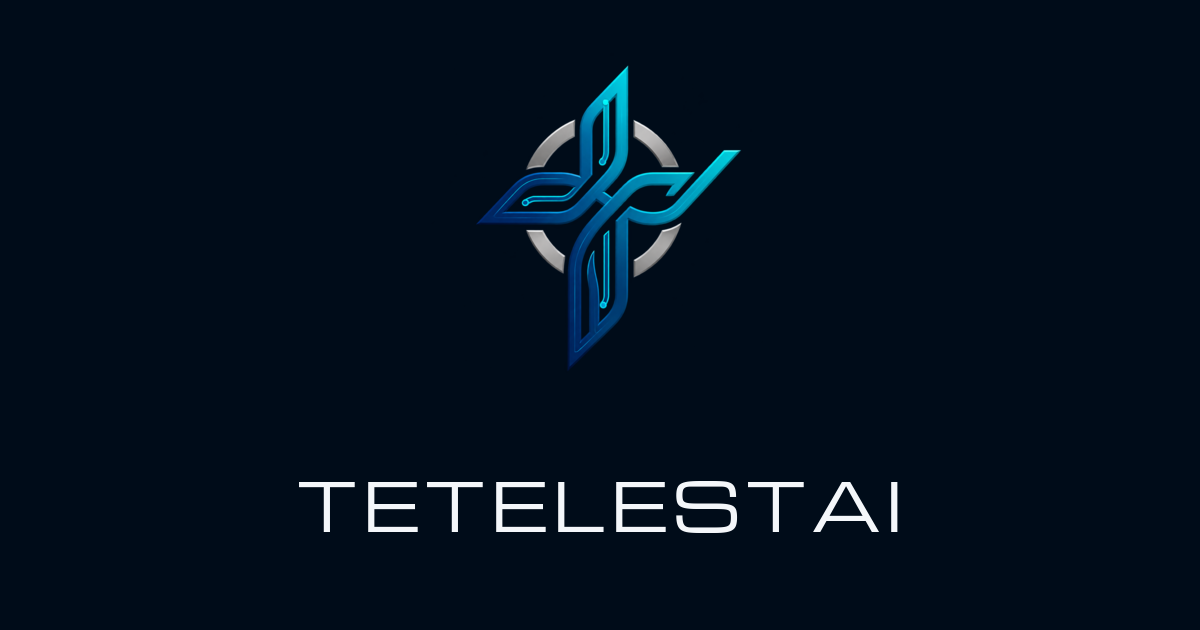
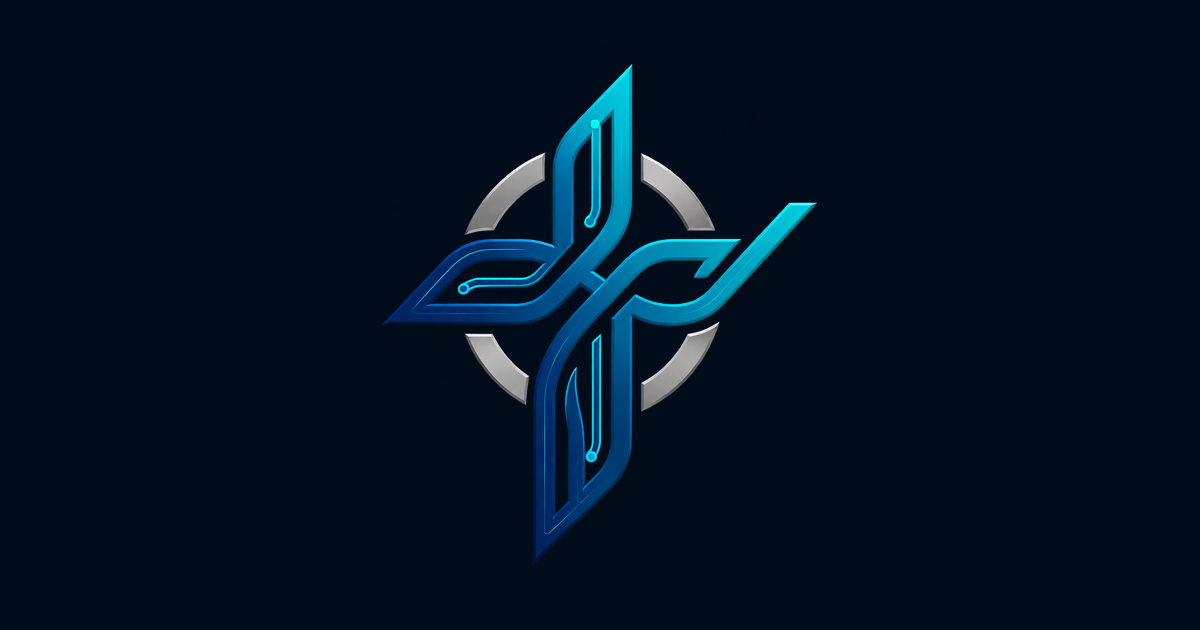
fix: enlarge original symbol in sharing preview

Changed region(s): [[0.2467, 0.1206, 0.7708, 0.9048]]

diff --git a/index.html b/index.html
@@ -16,7 +16,7 @@
     <meta property="og:image:type" content="image/png" />
     <meta property="og:image:width" content="1200" />
     <meta property="og:image:height" content="630" />
-    <meta property="og:image:alt" content="Símbolo e nome Tetelestai sobre fundo azul-marinho." />
+    <meta property="og:image:alt" content="Símbolo original da Tetelestai sobre fundo azul-marinho." />
     <link rel="canonical" href="https://tetelestai.tech/" />
     <link rel="alternate" hreflang="pt-BR" href="https://tetelestai.tech/" />
     <link rel="alternate" hreflang="en" href="https://tetelestai.tech/en/" />

diff --git a/AGENTS.md b/AGENTS.md
@@ -28,7 +28,7 @@ Build app UI in `src/`. Preserve the verified localized-shell and strict-route b
 - Center the company-information group and localized verse: `Está consumado! João 19:30` / `It is finished! John 19:30`; render both parts at `1rem`, keep the phrase cyan and the non-wrapping reference in the primary text color, separated only by a non-breaking space.
 - On mobile, use the existing circuit image behind the solutions introduction with `contain` sizing and low image-only opacity.
 - Protect `public/assets/tetelestai-symbol.png`; set the entire wordmark in Michroma 400 without isolated treatment of the letter `S`.
-- Use `public/assets/tetelestai-share.png` for Open Graph sharing: keep it at `1200 × 630 px`, under `600 KB`, with an opaque `#000C19` background, the protected original symbol and the Michroma 400 wordmark. Do not use the transparent symbol file itself as the sharing image.
+- Use `public/assets/tetelestai-share.png` for Open Graph sharing: keep it at `1200 × 630 px`, under `600 KB`, with an opaque `#000C19` background and only the protected original symbol, without a wordmark. Center the visible symbol at approximately `504 px` high (80% of the image height), scaling the original proportionally without redrawing, recoloring or clipping any tip; keep the complete symbol inside the centered square thumbnail crop. Do not use the transparent symbol file itself as the sharing image.
 - Privacy and not-found routes remain `noindex,nofollow`. The sitemap includes the PT and EN homepages and the approved PT service pages `/criacao-de-sites/` and `/criacao-de-landing-pages/`.
 - Confirmed privacy and data deletion channels (2026-09-11): company WhatsApp and `contato@tetelestai.tech`. Keep both available in the PT/EN privacy, terms and deletion pages. Terms and deletion routes also remain `noindex,nofollow`; do not add them to the sitemap. Describe WhatsApp automation as in preparation until the integration is verified live.
 - The local prototype must be verified before any publish, GitHub, Hostinger, domain, or DNS action.
